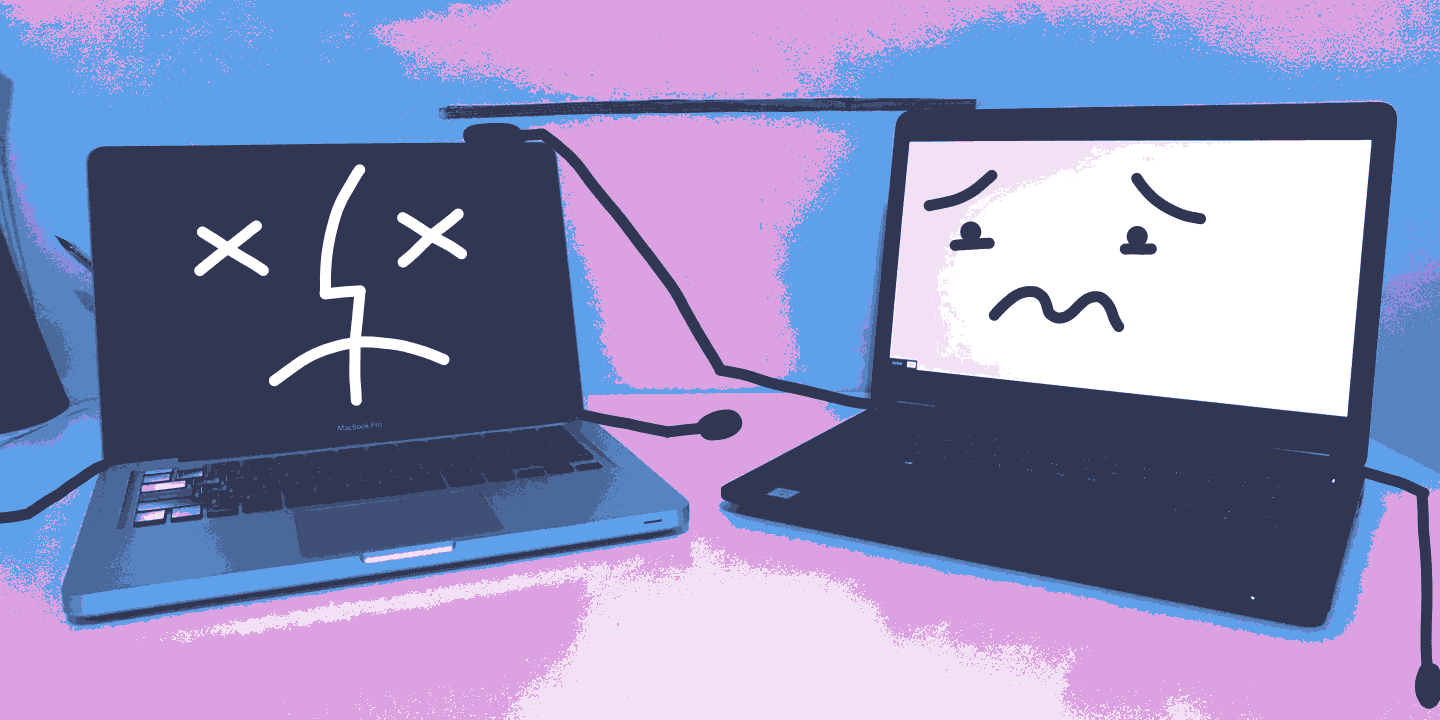
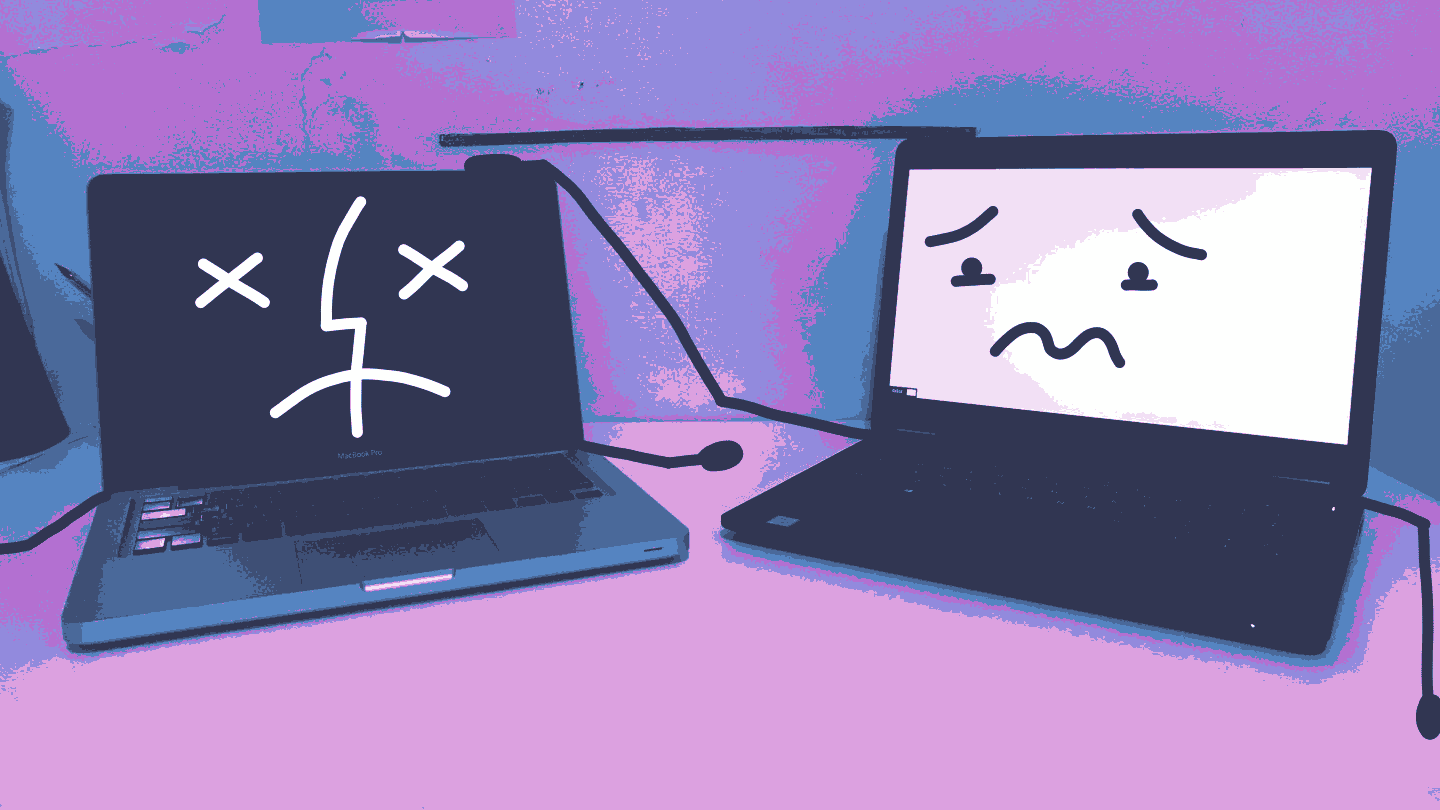
Redo illustrations, make them 16:9

diff --git a/templates/design.html b/templates/design.html
@@ -1,5 +1,7 @@
 {% extends "base.html" %} {% block content %}
 
+<h1>{{ page.title }}</h1>
+<p>{{ page.description }}</p>
 <section id="original-icons">
 	<div class="container">
 		<h2>Original Icons</h2>

diff --git a/content/about/index.md b/content/about/index.md
@@ -52,15 +52,15 @@ Have a look at my [designs](@/design/index.md), mostly icons but also some wallp
 
 ## Contacts
 
-See the [contact](@/contact/index.md#contacts) page.
+See the [contact](@/findme/index.md#contacts) page.
 
 ## Socials
 
-See the [socials](@/contact/index.md#socials) section on the contact page.
+See the [socials](@/findme/index.md#socials) section on the contact page.
 
 ## Forges
 
-See the [forges](@/contact/index.md#forges) section on the contact page.
+See the [forges](@/findme/index.md#forges) section on the contact page.
 
 ## This Website
 
@@ -121,7 +121,7 @@ If you like my website, feel free to link it by adding one of the buttons:
 
 > Note: It's recommended to avoid hot-linking; instead place a copy on your own site.
 
-Hey, you, yes, *you*. Got website and a button? I have a deal for you! Just [ping me somewhere](@/contact/index.md) and I'll add it here, piece of cake.
+Hey, you, yes, *you*. Got website and a button? I have a deal for you! Just [ping me somewhere](@/findme/index.md) and I'll add it here, piece of cake.
 
 <img id="fluttershy" class="transparent no-hover drop-shadow" src="fluttershy.gif" />
 

diff --git a/content/findme/index.md b/content/findme/index.md
@@ -1,11 +1,11 @@
 +++
-title = "Contact"
-description = "Where, when and how to contact me."
+title = "Find Me"
+description = "Where, when and how to find me."
 +++
 
-# Contact Me or Find on the Web
+# Find Me
 
-![envelope](envelope.png#full#transparent#no-hover)
+![envelope](envelope.png)
 
 ## Contacts
 
@@ -29,7 +29,7 @@ Feel free to send me a message on any of these. Whether you're bored or need som
 
 List of places where you can ~~stalk~~ find me on:
 
-> This is not a complete list but rather places where I'm somewhat active. You can find me on other platforms as well, although make sure it's the real me by [asking](@/contact/index.md) first.
+> This is not a complete list but rather places where I'm somewhat active. You can find me on other platforms as well, although make sure it's the real me by [asking](@/findme/index.md) first.
 
 <small>From most active to the least ↓</small>
 
